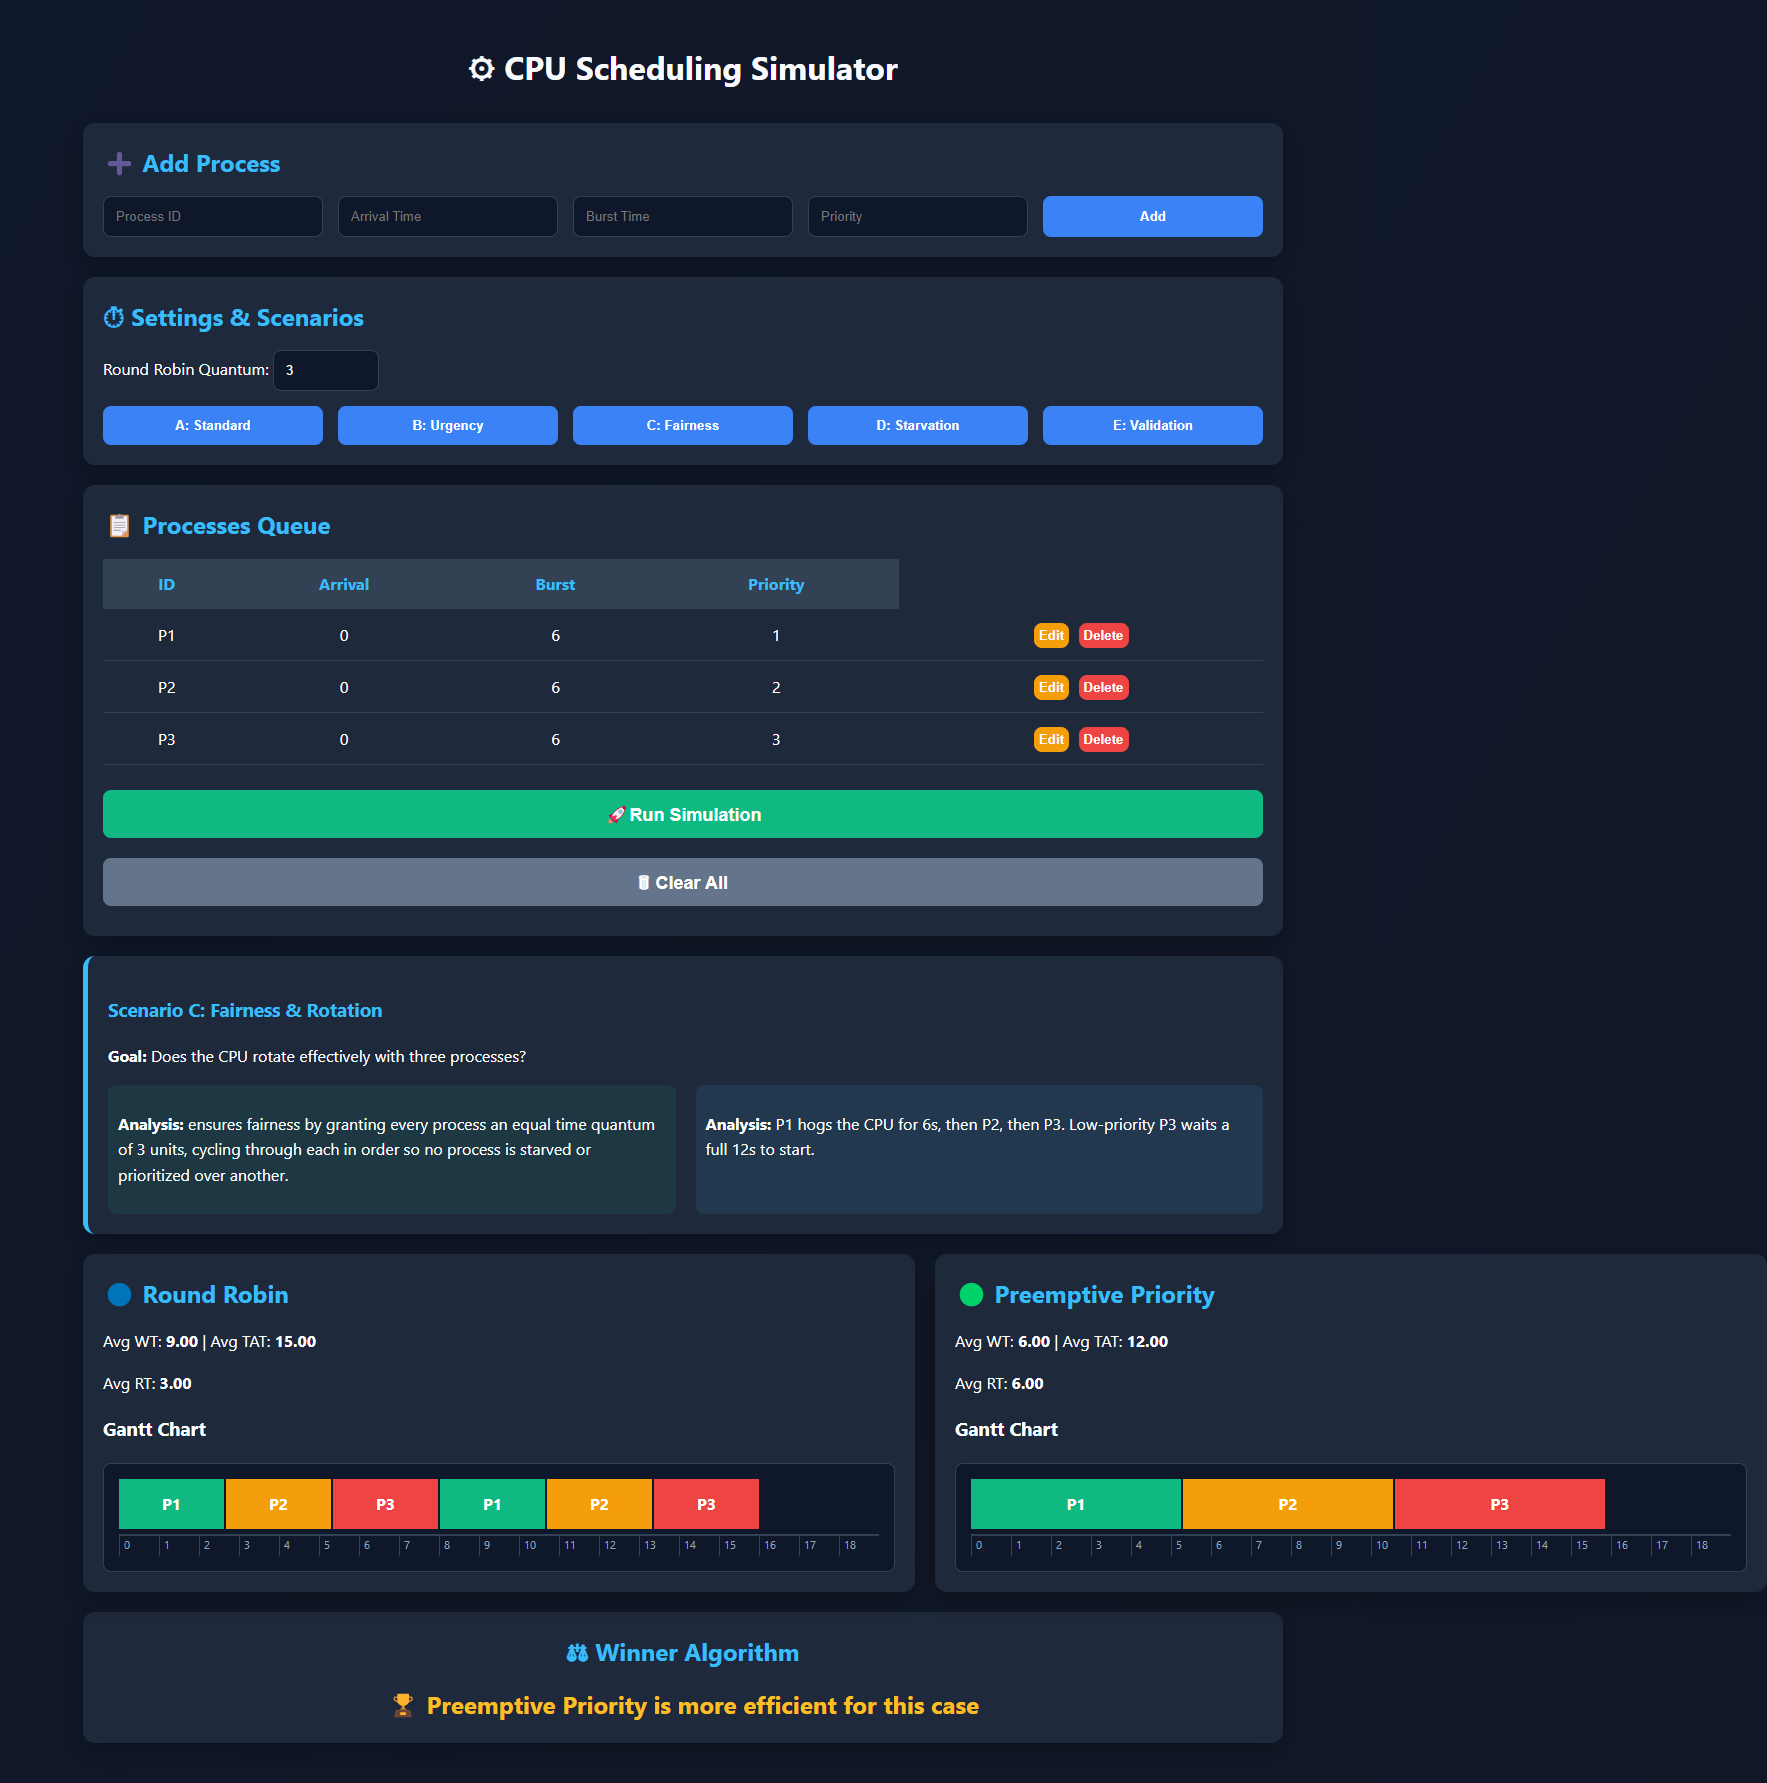
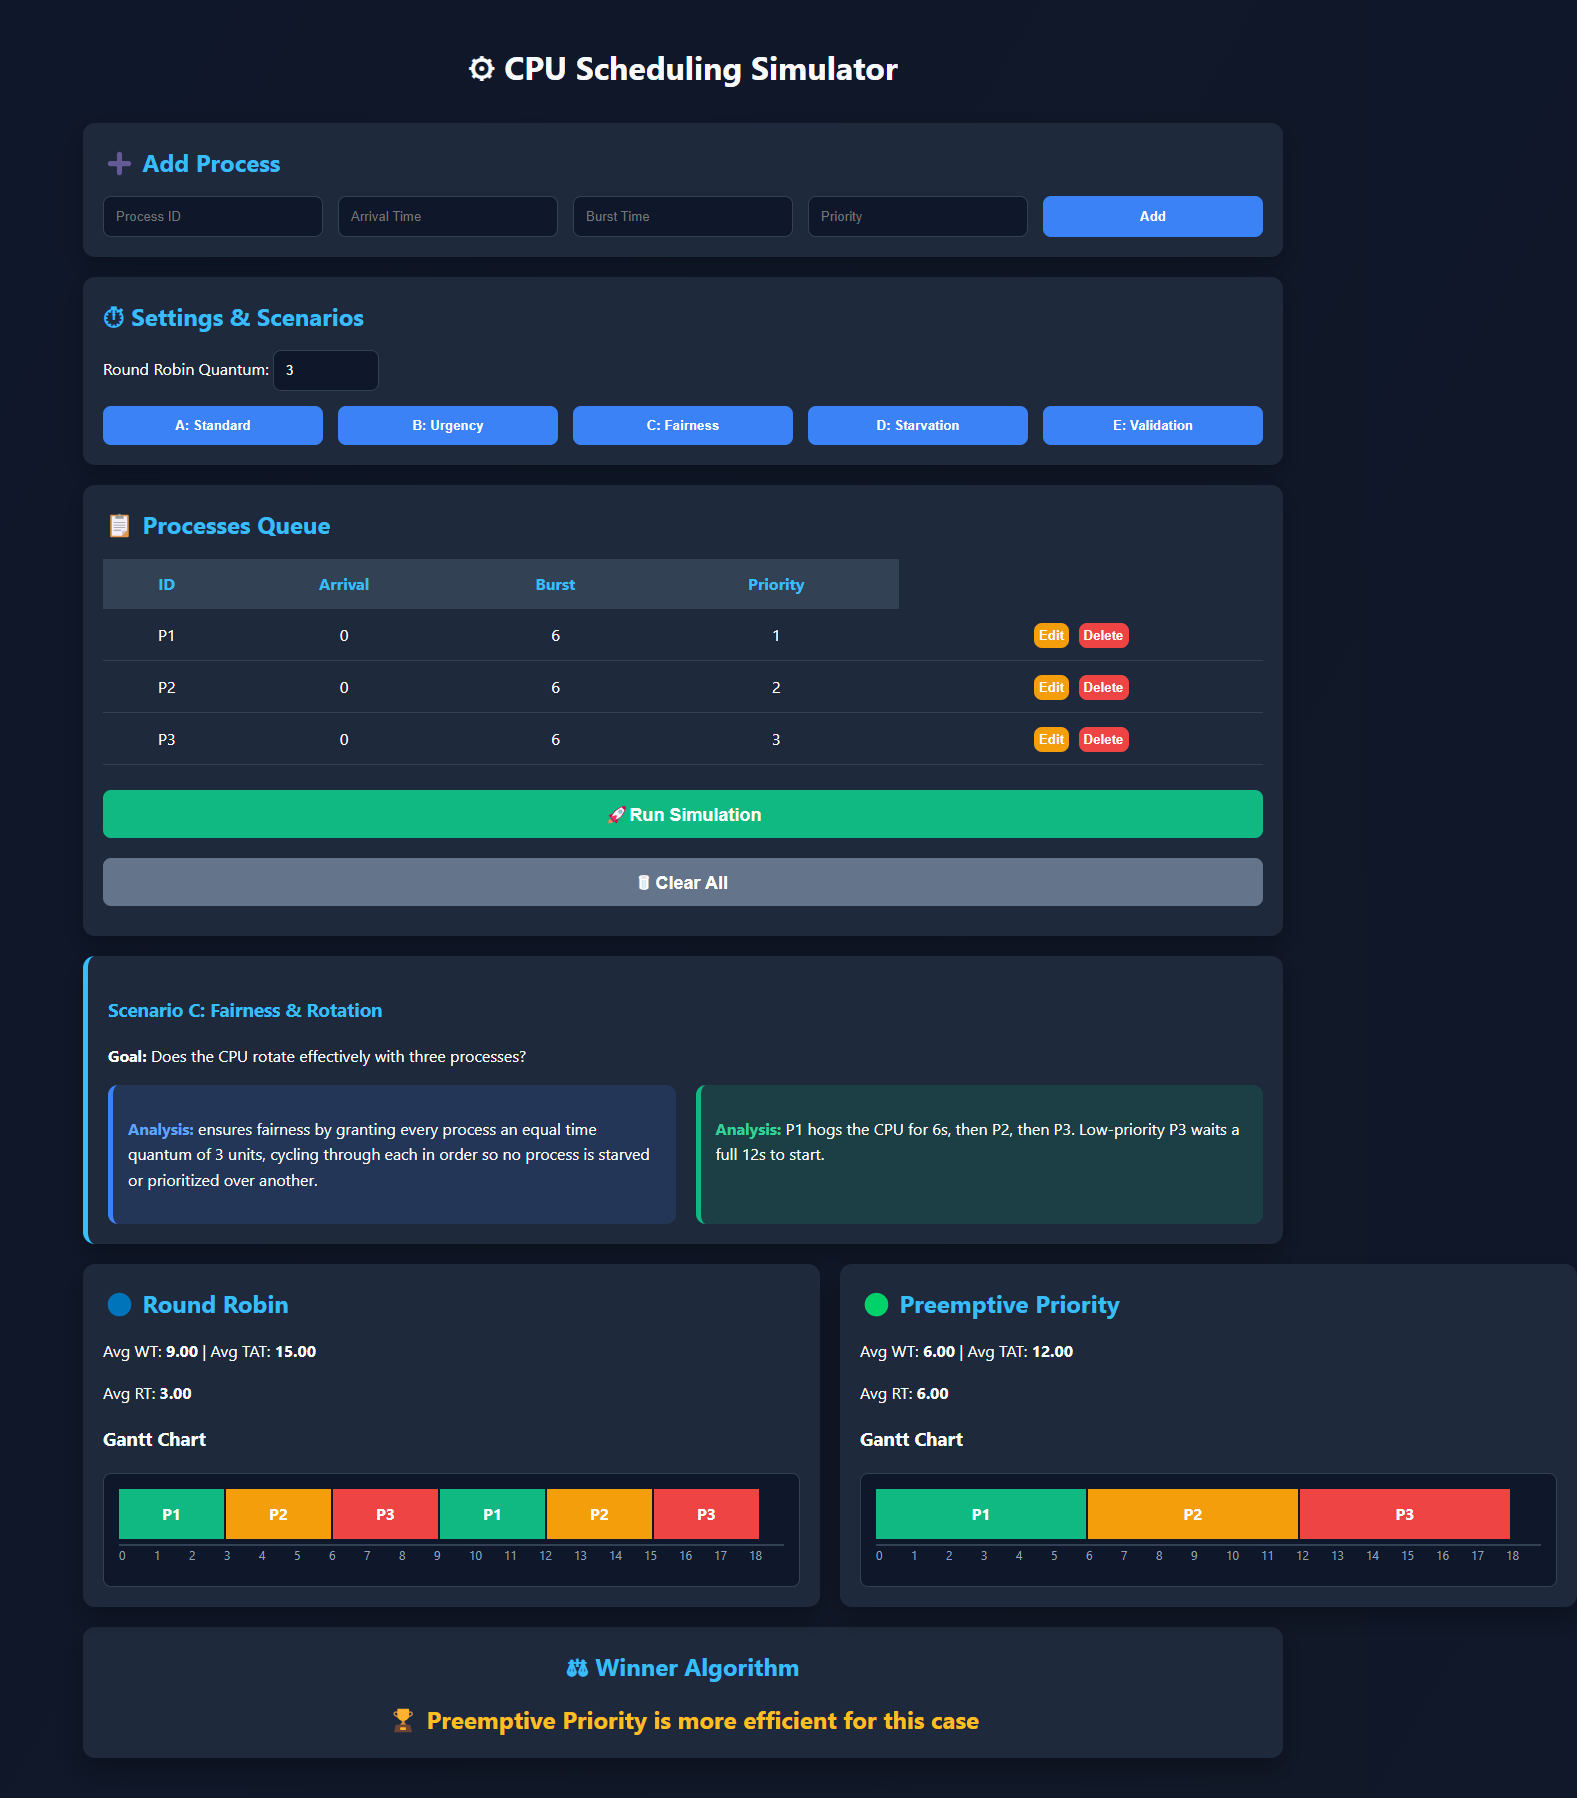
ediit

diff --git a/project-root/src/gui/style.css b/project-root/src/gui/style.css
@@ -138,6 +138,28 @@ th {
 .comparison h2 {
     color: #fbbf24; 
 }
+/* Analysis Boxes */
+#rr-analysis {
+    background: rgba(59, 130, 246, 0.15);
+    border-left: 5px solid #3b82f6;
+    padding: 15px;
+    border-radius: 10px;
+}
+
+#rr-analysis b {
+    color: #60a5fa;
+}
+
+#priority-analysis {
+    background: rgba(16, 185, 129, 0.15);
+    border-left: 5px solid #10b981;
+    padding: 15px;
+    border-radius: 10px;
+}
+
+#priority-analysis b {
+    color: #34d399;
+}
 /* 7. Responsive Design */
 @media (max-width: 768px) {
     .results {
